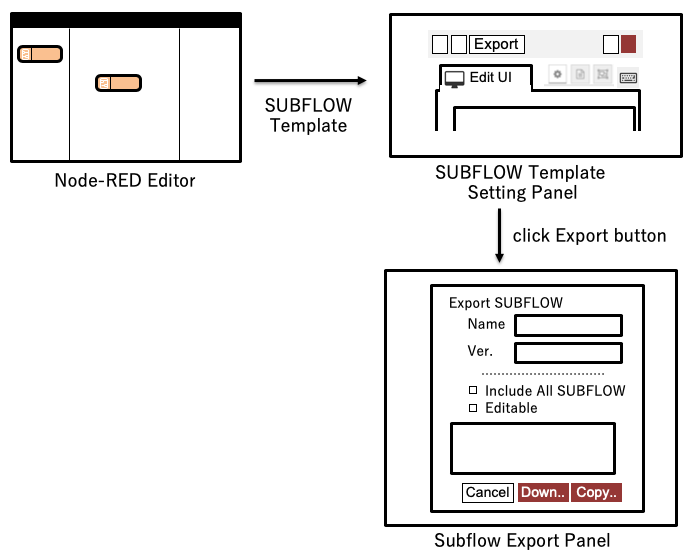
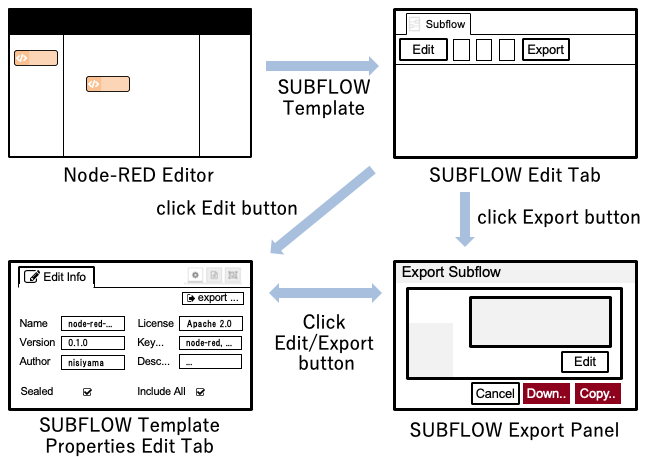
update design according to teleconference

Changed region(s): [[0.0, 0.0, 1.0, 1.0], [0.2446, 0.3676, 0.581, 0.5514]]

diff --git a/designs/exportable-subflow/README.md b/designs/exportable-subflow/README.md
@@ -24,38 +24,59 @@ are in the roadmap. (*TODO: add a link to the design doc once added*).
 
 ### Details
 
-Node can be exported as JSON code (*SUBFLOW Module*) or converted to a Node (*SUBFLOW Node*). In this document, design for *SUBFLOW Module* is described.
+Node can be exported as JSON code (*Exported SUBFLOW Template*) or converted to a Node (*SUBFLOW Node*). In this document, design for *Exported SUBFLOW Template* is described.
 
-#### Exporting SUBFLOW Module
+#### Exporting SUBFLOW Template
 
 ![Subflow-export-UI](Subflow-export-UI.png)
 
-By clicking **Export SUBFLOW** button on SUBFLOW template setting panel, SUBFLOW export panel is shown.
+By clicking **Export** button on SUBFLOW Template edit tab, SUBFLOW export panel is shown.  In this panel, JSON representation of the SUBFLOW can be downloaded, copied to clipboard, or stored to library.  
 
-In this panel, new node information such as node name, version, etc. can be specified. There is **Include All SUBFLOW** check box on this panel.  If this is checked, SUBFLOWs used within the exported SUBFLOW are recursively included in exported SUBFLOW Module.  If **Editable** check box on this panel is checked, SUBFLOW template can be edited on imported Node-RED editor.  Otherwise, the imported SUBLOW template is sealed. Thus, its internal flow or UI definition can not be edited.
+#### Importing SUBFLOW Template
 
-#### Importing SUBFLOW Module
-
-Node represented as JSON data can be imported in Node-RED environment from import new node panel.
+SUBFLOW Template represented as JSON data can be imported to other Node-RED environment from import new node panel.
 
 ![Subflow-import-UI](Subflow-import-UI.png)
 
-#### Uninstalling SUBFLOW Module
+#### Setting Properties for Exproted SUBFLOW Template
 
-SUBFLOW Module are listed in *Manage Palette > Palette > Nodes* tab.  Similar to normal nodes, *SUBFLOW Module*s listed in this tab will have **remove** button.  If a SUBFLOW Module includes other SUBFLOW Modules and is sealed, contained SUBFLOW Modules are also deleted.
+Clicking **Edit** button on SUBFLOW Template edit tab or clicking ***Edit** button on SUBFLOW Export panel shows SUBFLOW Template properties edit tab.
 
-#### SUBFLOW Module Format
+In this tab, new node information such as node name, version, etc. can be specified. There is **Include All SUBFLOW** check box on this panel.  If checked, SUBFLOWs used within the exported SUBFLOW are recursively included in exported SUBFLOW Template (default: checked).  
 
-Exported SUBFLOW Module is represented by JSON array format which is similar to current flow representation.  
+If **Editable** check box on this panel is checked, SUBFLOW template can be edited on imported Node-RED editor (default: unchecked).  Otherwise, the imported SUBLOW template is sealed. Thus, its internal flow or UI definition can not be edited.
 
-Following is a list of properties exported SUBFLOW node in SUBFLOW Module may contain (+ means that property is optional):
+If imported subflow is sealed and its **Include all SUBFLOW** is checked, SUBFLOWs used within the imported SUBFLOW are not listed on editor pallette and hidden from users.
+
+#### Uninstalling SUBFLOW Template
+
+Imported SUBFLOW Template are listed in *Manage Palette > Palette > Nodes* tab.  Similar to normal nodes, *SUBFLOW Template*s listed in this tab will have **remove** button.  If a imported SUBFLOW Template includes other SUBFLOW Templates and is sealed, contained SUBFLOW Templates are also deleted.
+
+If imported SUBFLOW template is not sealed, the SUBFLOW template can also be deleted by clicking **delete subflow** button.
+
+![Subflow-delete-UI](Subflow-delete-UI.png)
+
+### Unknown node in imported SUBFLOW Template
+
+When a sealed SUBFLOW Template is imported, if nodes contained in the template are not installed, imported SUBFLOW template appear with shaded color and dotted line similar to `unknown` node on Node-RED Editor and are disabled.
+
+List of nodes contained in SUBFLOW but not installed can be found in Manage palette/Palette/Nodes list.
+
+![Unknown Node](Unknown-node.png)
+
+
+#### SUBFLOW Template Export Format
+
+Exported SUBFLOW Template is represented by JSON array format which is similar to current flow representation.  
+
+Following is a list of properties exported SUBFLOW node in SUBFLOW Template may contain (+ means that property is optional):
 
 |      | name    | type   | description                        |
 | ---- | ------- | ------ | ---------------------------------- |
 | 1    | flow    | array  | array of contained nodes in SUBFLOW |
 | 2    | sealed+ | bool   | SUBFLOW template is not editable   |
 | 3    | hidden+ | bool   | SUBFLOW template is hidden         |
-| 4    | moduleName | string | name of SUBFLOW module             |
+| 4    | name    | string | name of SUBFLOW Template           |
 | 5    | color+  | string | color of SUBFLOW                   |
 | 6    | version | string | version of SUBFLOW (format: x.y.z) |
 | 7    | author+ | string | author of SUBFLOW                  |
@@ -63,13 +84,27 @@ Following is a list of properties exported SUBFLOW node in SUBFLOW Module may co
 | 9    | keywords+ | array  | array of keywords of SUBFLOW       |
 | 10   | description+ | string | simple description of SUBFLOW      |
 
-Exported SUBFLOW Module can be **sealed** which means that internal of the SUBFLOW Module is hidden from users.  
+Exported SUBFLOW Template can be **sealed** which means that internal of the SUBFLOW Template is hidden from users.  
 
-`flow` property is an array of nodes that are used in its SUBFLOW template.  *id* of nodes in SUBFLOW module must be *name*-*ID* where *ID* is a original *id* of the node.
+If imported **seald** SUBFLOW Template includes other SUBFLOW Templates, **hidden** property of these templates are set to true and these SUBFLOW Templates are not shown in editor pallette.
+
+`flow` property is an array of nodes that are used in its SUBFLOW template.  *id* of nodes in SUBFLOW template must be *name*-*ID* where *ID* is a original *id* of the node.
 
 Extended properties are ignored if they are imported to older version of Node-RED.  
+
+## Implementation Phases
+
+1. Implement basic import & export features including:
+	- SUBFLOW Export Panel,
+	- Changes to import mechanisms
+1. Add support of SUBFLOW Template properties tab,
+1. Implement sealing related features including:
+	- sealed SUBFLOW import/export,
+	- uninstallation of sealed SUBFLOW, 
+	- SUBFLOW with unknown node
 
 ## History
 
   - 2019-02-27 - migrated from Design note wiki
   - 2019-07-26 - updated according to design discussion on early July
+  - 2019-09-06 - updated accodring to design discussion on Sep. 4th

diff --git a/README.md b/README.md
@@ -31,7 +31,7 @@ with enough detail to review the intent and direction of the feature.
  - [Subflow Node Modules](designs/subflow-node-modules.md)
  - [Runnable Projects](designs/runnable-projects.md)
  - [Dynamic MQTT Node](designs/dynamic-mqtt-node.md)
- - [Exportable Subflow](designs/exportable-subflow.md)
+ - [Exportable Subflow](designs/exportable-subflow/README.md)
  - [Node Timeout API](designs/timeout-api.md)
 
 #### In-progress
